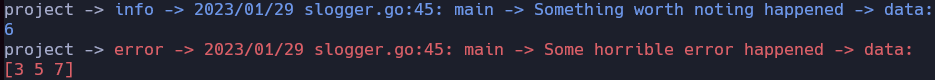
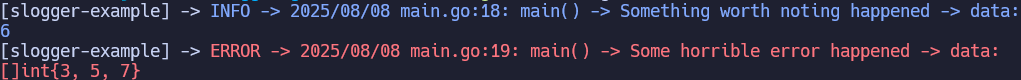
improve docs

Changed region(s): [[0.0, 0.0, 1.0, 1.0], [0.5893, 0.0, 0.6203, 0.025], [0.4652, 0.0, 0.4963, 0.025]]

diff --git a/slogger.go b/slogger.go
@@ -96,6 +96,9 @@ func (l *Logger) SetColor(color string) {
 	l.l.SetPrefix(formattedPrefix)
 }
 
+// Set the calldepth of the logger, this allows log flags such as log.Lshortfile or log.Llongfile to report
+// the file/line of caller functions from further up the all stack if desired, otherwise a sensible default is used
+// for behavior similar to go's log.Logger
 func (l *Logger) SetCalldepth(calldepth int) {
 	l.calldepth = calldepth
 }

diff --git a/README.md b/README.md
@@ -22,19 +22,22 @@ go get github.com/jesse-rb/slogger-go
 package main
 
 import (
+	"log"
+	"os"
+
 	slogger "github.com/jesse-rb/slogger-go"
-    log
-    os
 )
 
 func main() {
-    // Declare some loggers
-    infoLogger := slogger.New(os.Stdout, slogger.ANSIBlue, "info", log.Lshortfile+log.Ldate);
-    errorLogger := slogger.New(os.Stderr, slogger.ANSIRed, "error", log.Lshortfile+log.Ldate);
+	slogger.GlobalPrefix = "[slogger-example]"
 
-    // Log some things
-    infoLogger.Log("main", "Something worth noting happened", 2+4)
-    errorLogger.Log("main", "Some horrible error happened", []int{3, 5, 7})
+	// Declare some loggers
+	infoLogger := slogger.New(os.Stdout, slogger.ANSIBlue, "INFO", log.Lshortfile+log.Ldate)
+	errorLogger := slogger.New(os.Stderr, slogger.ANSIRed, "ERROR", log.Lshortfile+log.Ldate)
+
+	// Log some things
+	infoLogger.Log("main()", "Something worth noting happened", 2+4)
+	errorLogger.Log("main()", "Some horrible error happened", []int{3, 5, 7})
 }
 ```
 
@@ -42,6 +45,12 @@ func main() {
 
 ![preview image A](previews/preview-a.png)
 
+```
+[slogger-example] -> INFO -> 2025/08/08 main.go:18: main() -> Something worth noting happened -> data:
+6
+[slogger-example] -> ERROR -> 2025/08/08 main.go:19: main() -> Some horrible error happened -> data:
+[]int{3, 5, 7}
+```
 
 ## References
 
